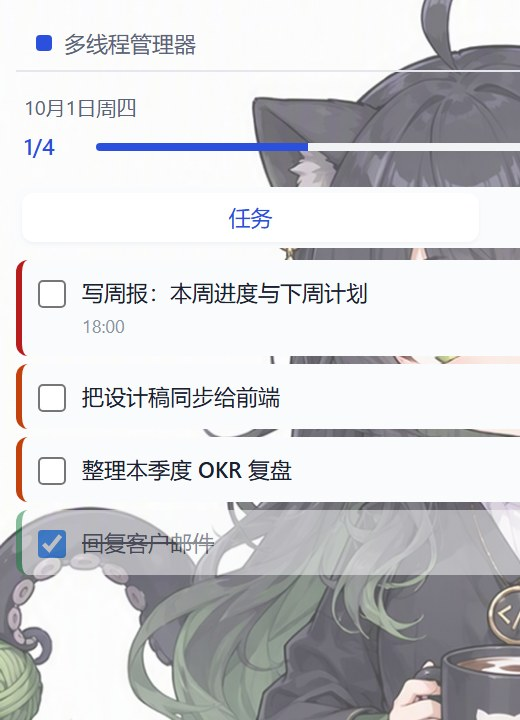
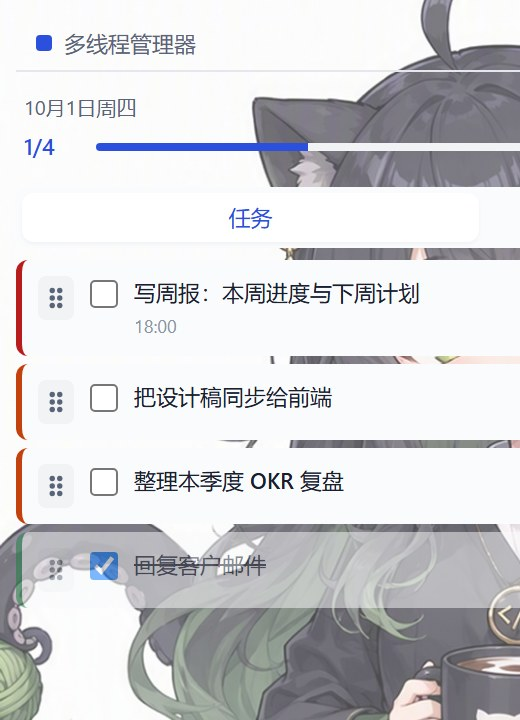
feat: mini 小窗的任务列表也支持拖动排序
- 拖动逻辑抽成 composables/useTaskDrag.js，主窗口卡片与小窗列表共用同一套（握把发起拖动、落在上/下半决定插到前/后）
- 小窗空间小，握把做紧凑版（18x22），列表项也补了插入线提示
- 小窗列表的 :class 改成显式数组，优先级 / 状态 / 拖动态写清楚

diff --git a/src/views/MiniView.vue b/src/views/MiniView.vue
@@ -5,12 +5,19 @@ import { useTaskStore } from '../stores/taskStore'
 import { useTimerStore } from '../stores/timerStore'
 import { useSettingsStore } from '../stores/settingsStore'
 import { useBackground } from '../composables/useBackground'
+import { useTaskDrag } from '../composables/useTaskDrag'
 import { formatTime } from '../utils/time'
 
 const taskStore = useTaskStore()
 const timerStore = useTimerStore()
 const settingsStore = useSettingsStore()
 const { bgStyle, bgImageStyle } = useBackground('mini') // mini 小窗以 --bg-elevated 为基准色
+
+// 小窗里也能拖动排序：列表是另一套标记，和主窗口共用同一套拖动逻辑
+const {
+  draggingId, overId, overPos,
+  onDragStart, onDragEnd, onDragOver, onDragLeave, onDrop
+} = useTaskDrag((fromId, toId, position) => taskStore.reorder(fromId, toId, position))
 
 const activeTab = ref('tasks') // tasks | timer
 
@@ -130,8 +137,36 @@ async function resumeTimer () {
           v-for="t in todayTasks"
           :key="t.id"
           class="task-item"
-          :class="`p-${t.priority}`, `s-${t.status}`"
+          data-drag-item
+          :class="[
+            `p-${t.priority}`,
+            `s-${t.status}`,
+            {
+              dragging: draggingId === t.id,
+              'drop-before': overId === t.id && overPos === 'before',
+              'drop-after': overId === t.id && overPos === 'after'
+            }
+          ]"
+          @dragover="e => onDragOver(e, t.id)"
+          @dragleave="onDragLeave(t.id)"
+          @drop="e => onDrop(e, t.id)"
         >
+          <span
+            class="grip"
+            draggable="true"
+            title="按住拖动排序"
+            @dragstart="e => onDragStart(e, t.id)"
+            @dragend="onDragEnd"
+          >
+            <svg viewBox="0 0 10 16" width="8" height="12" aria-hidden="true">
+              <circle cx="2.5" cy="3" r="1.8" />
+              <circle cx="7.5" cy="3" r="1.8" />
+              <circle cx="2.5" cy="8" r="1.8" />
+              <circle cx="7.5" cy="8" r="1.8" />
+              <circle cx="2.5" cy="13" r="1.8" />
+              <circle cx="7.5" cy="13" r="1.8" />
+            </svg>
+          </span>
           <input
             type="checkbox"
             :checked="t.status === 'completed'"
@@ -320,7 +355,51 @@ async function resumeTimer () {
   border-radius: var(--radius-md);
   border-left: 3px solid transparent;
   transition: all var(--duration-fast) var(--ease);
+  position: relative;
 }
+
+/* 拖动排序：小窗空间小，握把做紧凑一些，但保留底色方便发现 */
+.grip {
+  flex-shrink: 0;
+  display: inline-flex;
+  align-items: center;
+  justify-content: center;
+  width: 18px;
+  height: 22px;
+  border-radius: var(--radius-sm);
+  background: var(--bg-strong);
+  color: var(--fg-soft);
+  cursor: grab;
+  user-select: none;
+  transition: all var(--duration-fast) var(--ease);
+}
+.grip svg {
+  fill: currentColor;
+  pointer-events: none;
+}
+.grip:hover {
+  background: var(--primary-soft);
+  color: var(--primary);
+}
+.grip:active {
+  cursor: grabbing;
+  background: var(--primary-mute);
+}
+.task-item.dragging {
+  opacity: 0.45;
+}
+.task-item.drop-before::before,
+.task-item.drop-after::after {
+  content: '';
+  position: absolute;
+  left: 6px;
+  right: 6px;
+  height: 2px;
+  background: var(--primary);
+  border-radius: 2px;
+}
+.task-item.drop-before::before { top: 0; }
+.task-item.drop-after::after { bottom: 0; }
 .task-item:hover {
   background: var(--bg-strong);
 }

diff --git a/src/components/TaskCard.vue b/src/components/TaskCard.vue
@@ -1,6 +1,7 @@
 <script setup>
-import { computed, ref } from 'vue'
+import { computed } from 'vue'
 import { isOverdue, formatDueTime } from '../utils/time'
+import { useTaskDrag } from '../composables/useTaskDrag'
 
 const props = defineProps({
   task: { type: Object, required: true }
@@ -13,43 +14,9 @@ const completed = computed(() => props.task.status === 'completed')
 const progress = computed(() => Math.max(0, Math.min(100, props.task.progress || 0)))
 
 // 拖动排序：只让卡片里的握把发起拖动，避免和进度滑块、按钮抢事件
-const dragging = ref(false)
-const dropPos = ref('')
-
-function onDragStart (e) {
-  dragging.value = true
-  e.dataTransfer.effectAllowed = 'move'
-  e.dataTransfer.setData('text/plain', props.task.id)
-  const card = e.currentTarget.closest('.task-card')
-  if (card) e.dataTransfer.setDragImage(card, 24, 24)
-}
-
-function onDragEnd () {
-  dragging.value = false
-  dropPos.value = ''
-}
-
-function onDragOver (e) {
-  e.preventDefault()
-  if (dragging.value) return // 拖到自己身上不显示插入线
-  e.dataTransfer.dropEffect = 'move'
-  const rect = e.currentTarget.getBoundingClientRect()
-  dropPos.value = e.clientY < rect.top + rect.height / 2 ? 'before' : 'after'
-}
-
-function onDragLeave () {
-  dropPos.value = ''
-}
-
-function onDrop (e) {
-  e.preventDefault()
-  const fromId = e.dataTransfer.getData('text/plain')
-  const position = dropPos.value || 'before'
-  dropPos.value = ''
-  dragging.value = false
-  if (!fromId || fromId === props.task.id) return
-  emit('reorder', fromId, props.task.id, position)
-}
+const { draggingId, overId, overPos, onDragStart, onDragEnd, onDragOver, onDragLeave, onDrop } = useTaskDrag(
+  (fromId, toId, position) => emit('reorder', fromId, toId, position)
+)
 
 function onProgress (e) {
   emit('set-progress', props.task.id, Number(e.target.value))
@@ -62,10 +29,11 @@ function toggleComplete () {
 <template>
   <div
     class="task-card"
-    :class="[`status-${task.status}`, `p-${task.priority}`, { overdue, completed, dragging, 'drop-before': dropPos === 'before', 'drop-after': dropPos === 'after' }]"
-    @dragover="onDragOver"
-    @dragleave="onDragLeave"
-    @drop="onDrop"
+    data-drag-item
+    :class="[`status-${task.status}`, `p-${task.priority}`, { overdue, completed, dragging: draggingId === task.id, 'drop-before': overId === task.id && overPos === 'before', 'drop-after': overId === task.id && overPos === 'after' }]"
+    @dragover="e => onDragOver(e, task.id)"
+    @dragleave="onDragLeave(task.id)"
+    @drop="e => onDrop(e, task.id)"
   >
     <div class="left-line"></div>
     <div class="card-body">
@@ -83,7 +51,7 @@ function toggleComplete () {
           class="grip"
           draggable="true"
           title="按住拖动排序"
-          @dragstart="onDragStart"
+          @dragstart="e => onDragStart(e, task.id)"
           @dragend="onDragEnd"
         >
           <svg viewBox="0 0 10 16" width="10" height="16" aria-hidden="true">

diff --git a/src/composables/useTaskDrag.js b/src/composables/useTaskDrag.js
@@ -1,0 +1,51 @@
+import { ref } from 'vue'
+
+// 任务列表拖动换位：由握把发起拖动，落到目标项的上半 / 下半表示插到它前面 / 后面。
+// 状态留在调用方组件里：TaskCard 每个卡片一份；mini 小窗整个列表共用一份，用 id 区分。
+export function useTaskDrag (reorder) {
+  const draggingId = ref('')
+  const overId = ref('')
+  const overPos = ref('')
+
+  function onDragStart (e, id) {
+    draggingId.value = id
+    e.dataTransfer.effectAllowed = 'move'
+    e.dataTransfer.setData('text/plain', id)
+    // 拖动时用的幽灵图：整张卡片 / 整行，而不是那个小握把
+    const box = e.currentTarget.closest('[data-drag-item]')
+    if (box) e.dataTransfer.setDragImage(box, 24, 16)
+  }
+
+  function onDragEnd () {
+    draggingId.value = ''
+    overId.value = ''
+    overPos.value = ''
+  }
+
+  function onDragOver (e, id) {
+    e.preventDefault()
+    if (draggingId.value === id) return // 拖到自己身上不显示插入线
+    e.dataTransfer.dropEffect = 'move'
+    const rect = e.currentTarget.getBoundingClientRect()
+    overId.value = id
+    overPos.value = e.clientY < rect.top + rect.height / 2 ? 'before' : 'after'
+  }
+
+  function onDragLeave (id) {
+    if (overId.value === id) {
+      overId.value = ''
+      overPos.value = ''
+    }
+  }
+
+  function onDrop (e, id) {
+    e.preventDefault()
+    const fromId = e.dataTransfer.getData('text/plain') || draggingId.value
+    const position = overPos.value || 'before'
+    onDragEnd()
+    if (!fromId || fromId === id) return
+    reorder(fromId, id, position)
+  }
+
+  return { draggingId, overId, overPos, onDragStart, onDragEnd, onDragOver, onDragLeave, onDrop }
+}
